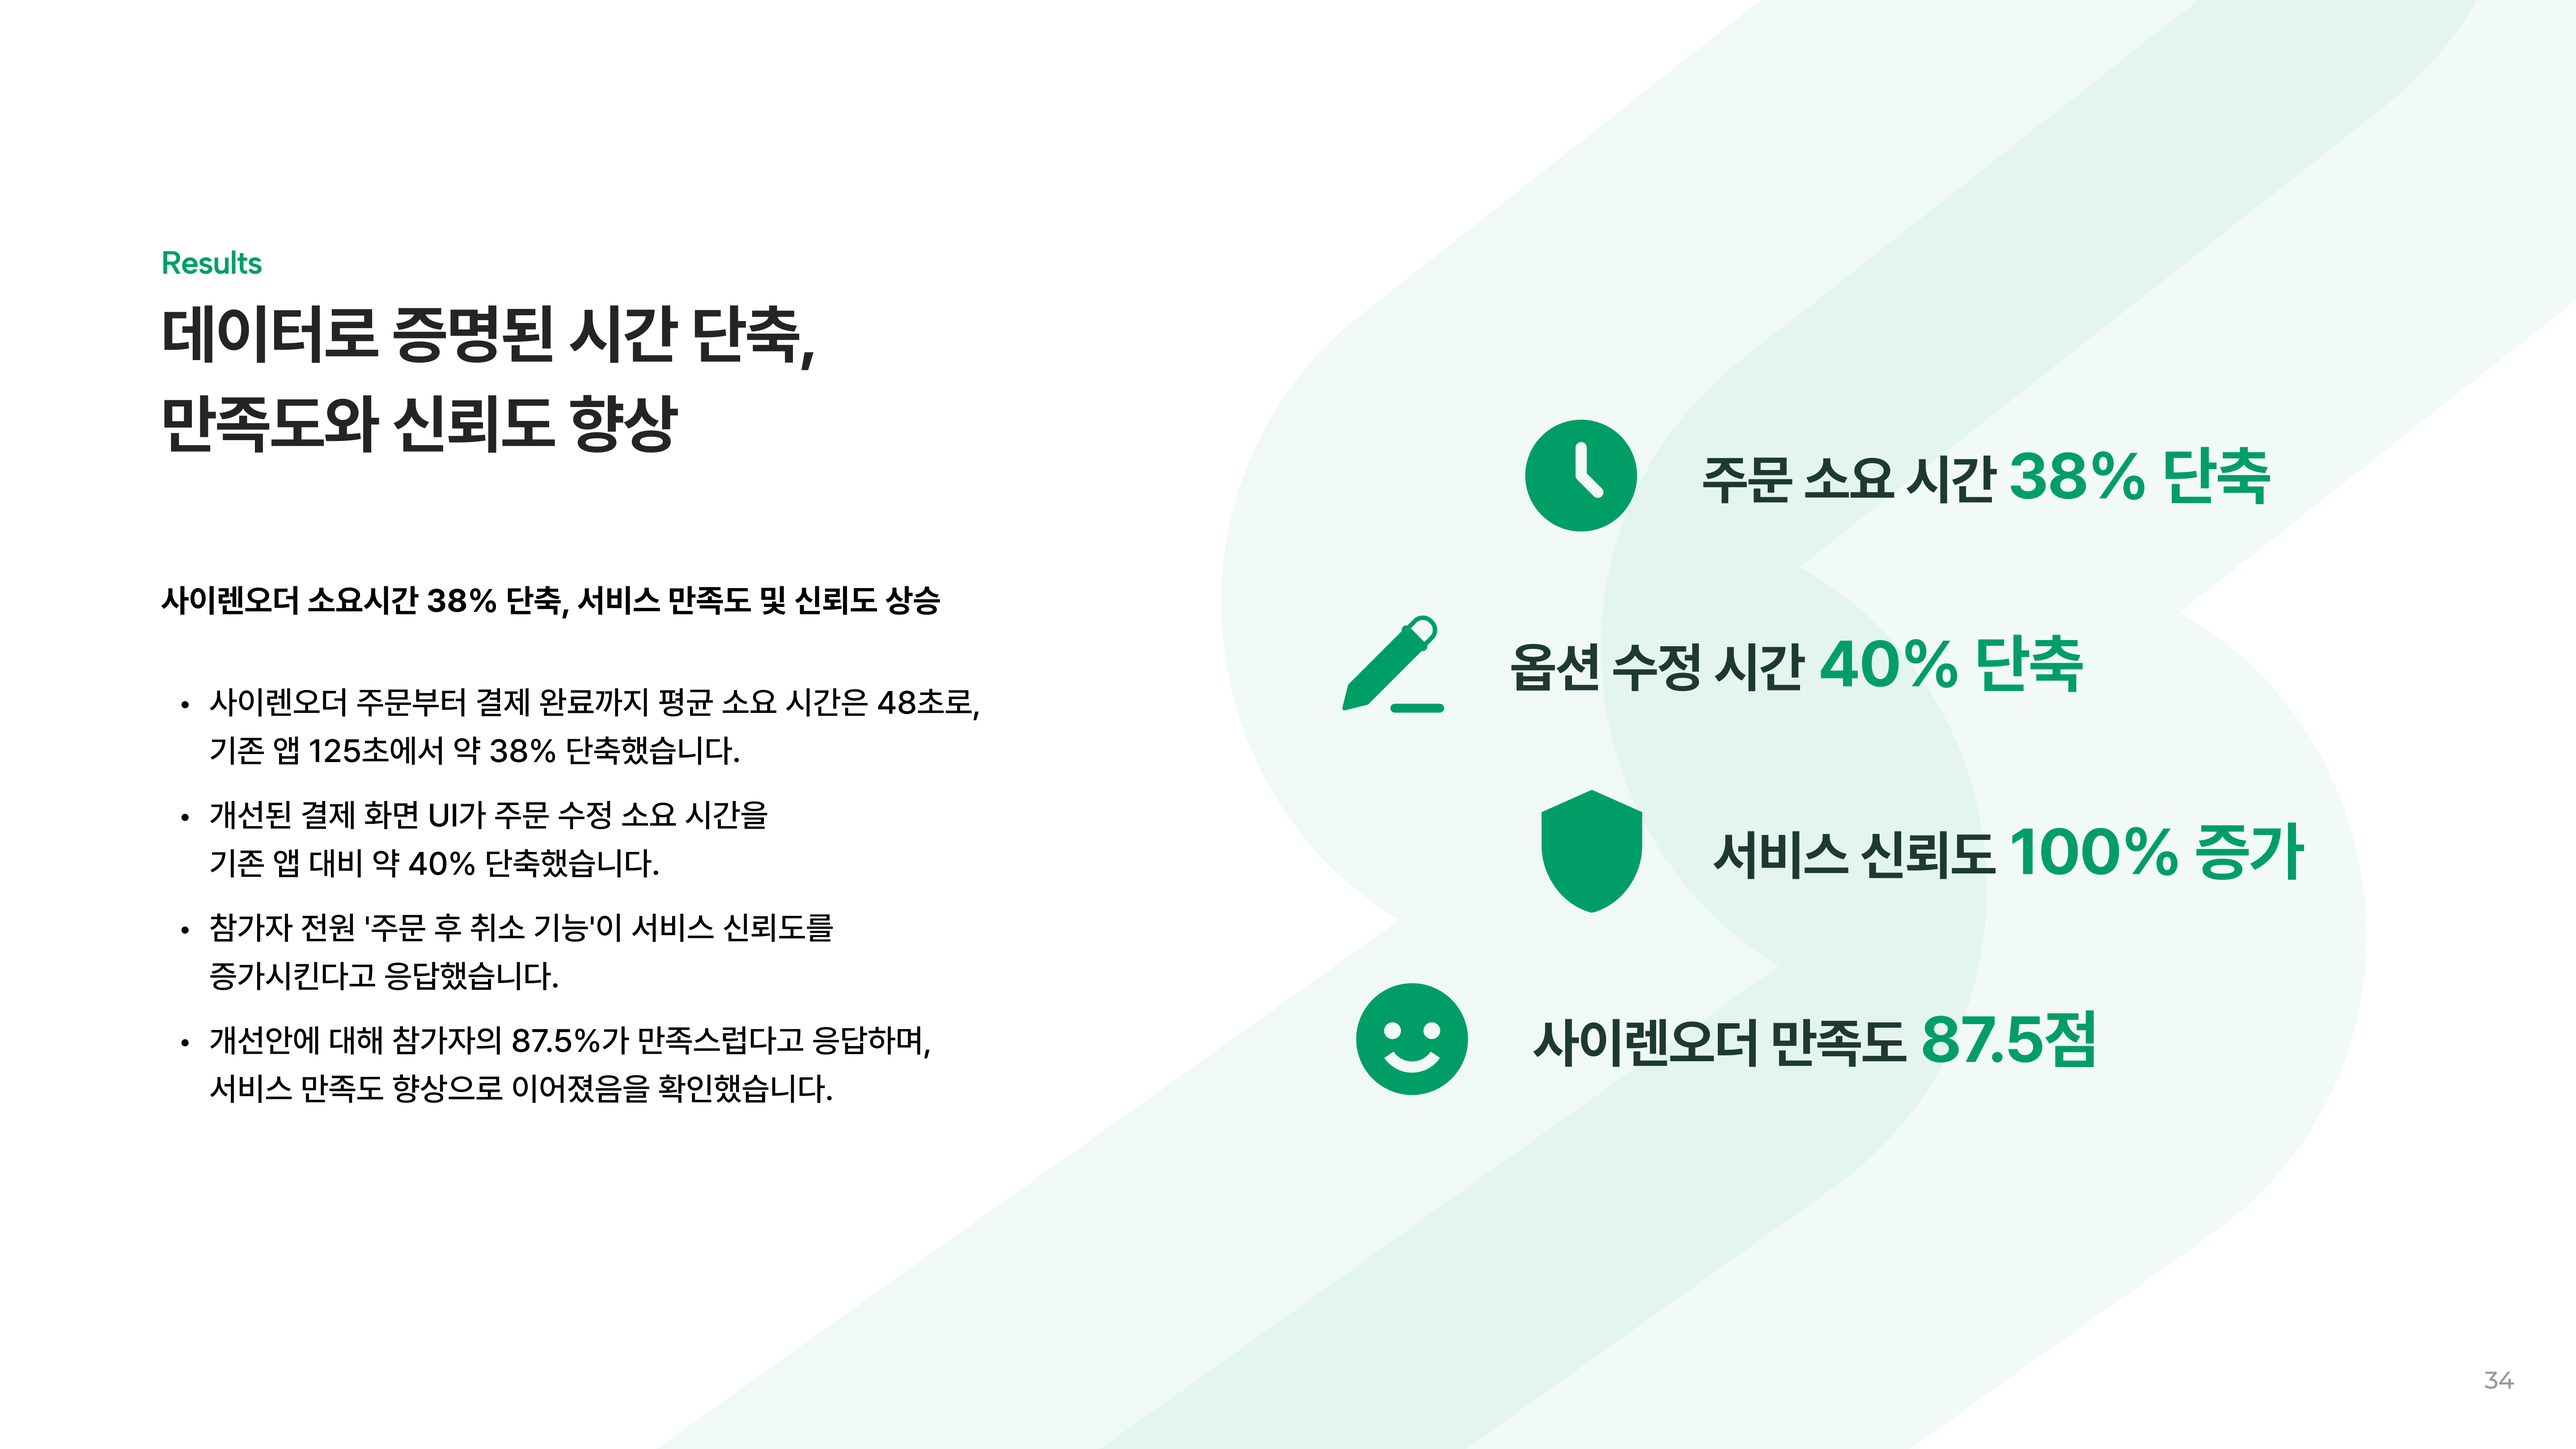
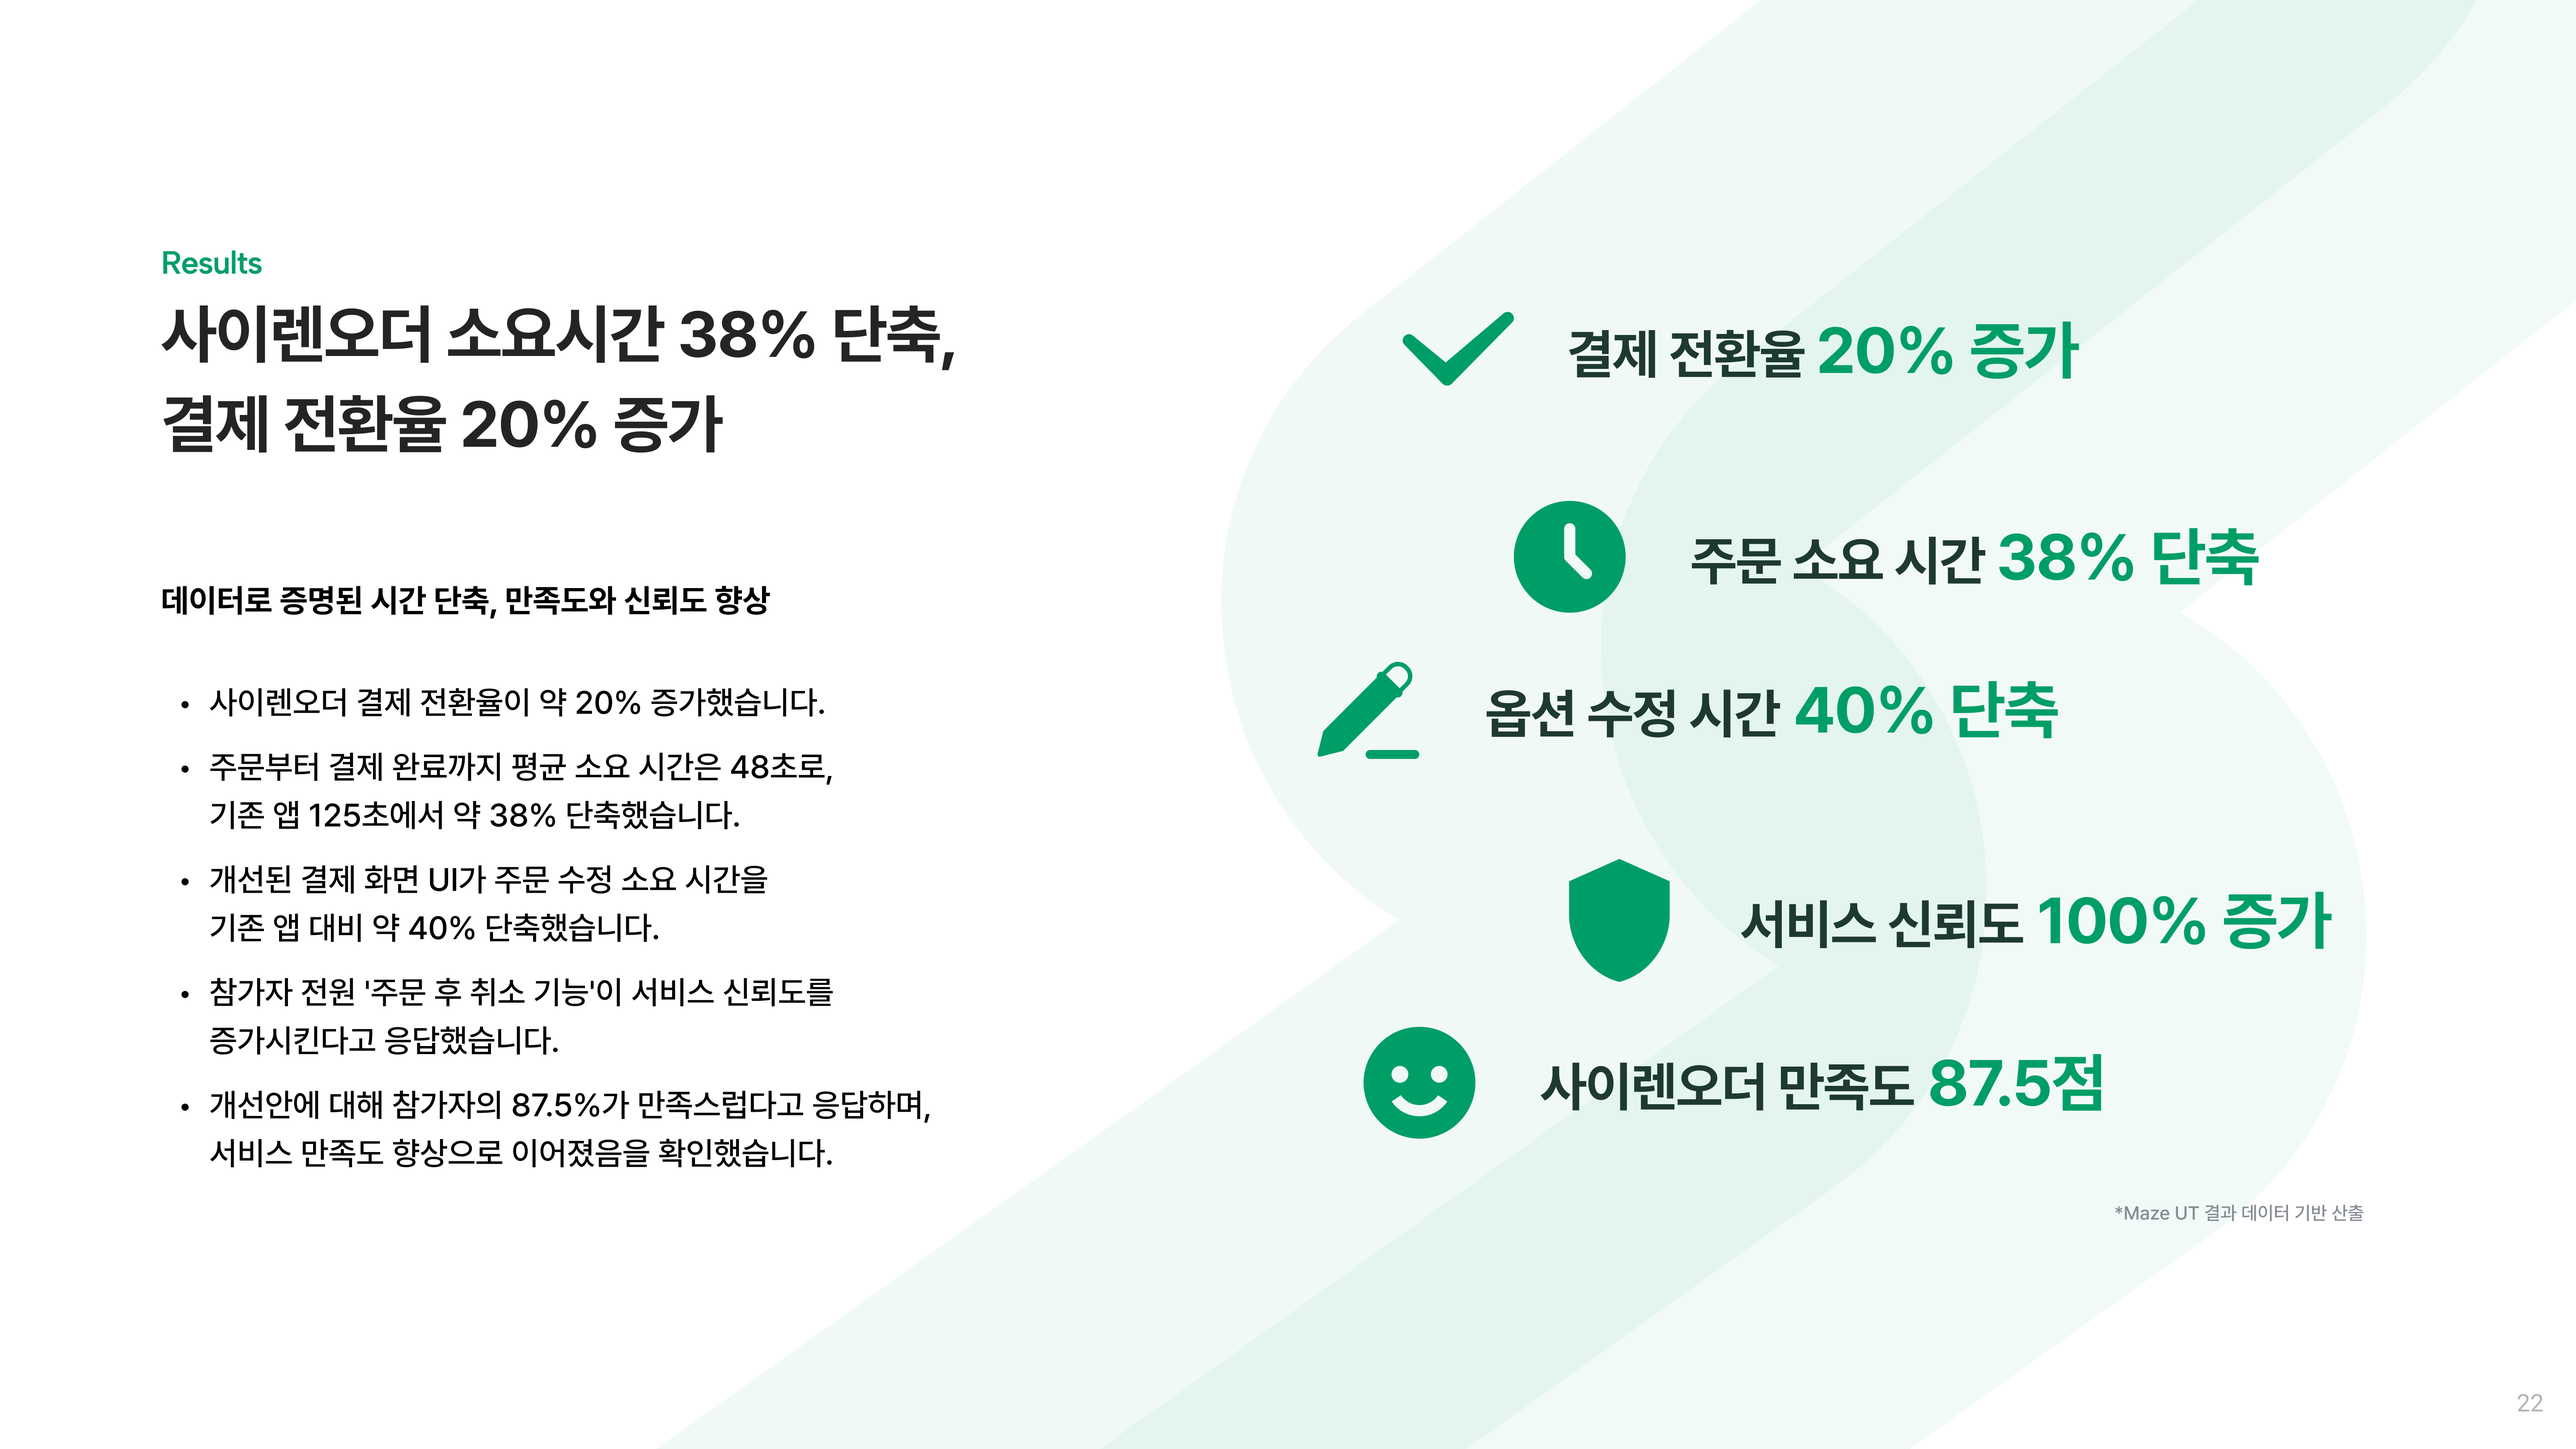
feat: Update Starbucks project content and images

diff --git a/starbucks.html b/starbucks.html
@@ -108,7 +108,7 @@
                         <h2>개요</h2>
                         <p>사이렌오더 과정에서 예측 불가능한 대기시간과 실수 수정의 어려움이라는 핵심 문제를 해결하기 위해 매장 혼잡도 표시, 결제 전 옵션 변경, 주문 즉시 취소 기능을
                             제안했습니다.
-                            체계적인 디자인 시스템 구축을 통해 브랜드 일관성을 유지하면서도 사용자 중심의 직관적인 주문 경험을 제공하는 솔루션을 완성했습니다.</p>
+                            체계적인 디자인 시스템 구축을 통해 브랜드 일관성을 유지하면서도 사용자 중심의 직관적인 주문 경험을 제공하여 결제 전환율 20% 증가, 사이렌오더 소요시간 38% 단축을 달성했습니다.</p>
 
                         <div class="project-specs">
                             <div class="spec-item">
@@ -123,11 +123,12 @@
                             <div class="spec-item">
                                 <h3>Duration</h3>
                                 <p>개인 작업 : 2025.05 - 2025.09</p>
-                                <p>팀 작업: 2024.10 - 2024.12</p>
                             </div>
                             <div class="spec-item">
                                 <h3>Tools</h3>
                                 <p>Figma</p>
+                                <p>Maze</p>
+                                <p>Python</p>
                             </div>
                         </div>
                     </div>
@@ -373,7 +374,7 @@
 
                     <div id="results" class="project-section">
                         <h2>결과</h2>
-                        <p>사용성 테스트 결과, 사이렌오더 소요시간 38% 단축, 서비스 만족도 및 신뢰도 상승을
+                        <p>사용성 테스트 결과, 결제 전환율 20% 증가, 사이렌오더 소요시간 38% 단축을
                             확인했습니다.</p>
                         <figure>
                             <img class="img-main" src="starbucks/장표/14.png?v=20251201" alt="UT 결과">
@@ -386,8 +387,6 @@
                             구현에서는 주문취소 버튼이 레이블 크기로 제작되어 있었는데, 이를 통해 사용자 편의성과 비즈니스 목표(주문완료율) 사이의 균형점을 찾는 것이 프로덕트 디자이너의 핵심
                             역량임을 깨달았습니다. Maze 무료 요금제의 제약으로 인해 UT 설계가 제한적이었던 점은 아쉬움으로 남지만, 1인 프로젝트 리소스 내에서 최선을 다했으며 향후 더
                             정밀한 테스트 설계를 목표로 합니다.</p>
-                        <img class="img-main" src="starbucks/장표/15.png?v=20251201" alt="Starbucks Learnings">
-                        <img class="img-main" src="starbucks/장표/16.png?v=20251201" alt="Starbucks Learnings">
                     </div>
                 </div>
 
